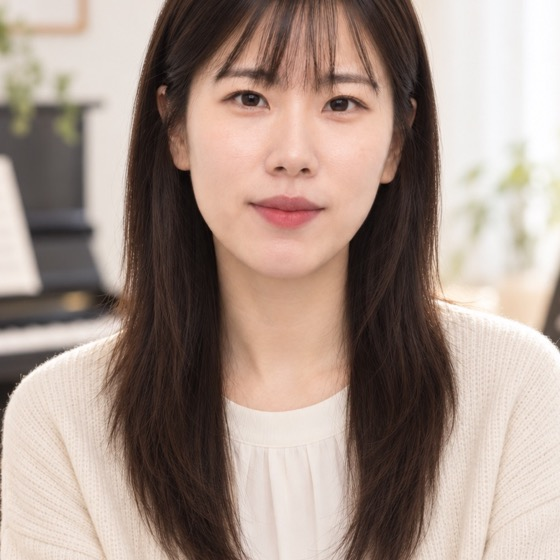
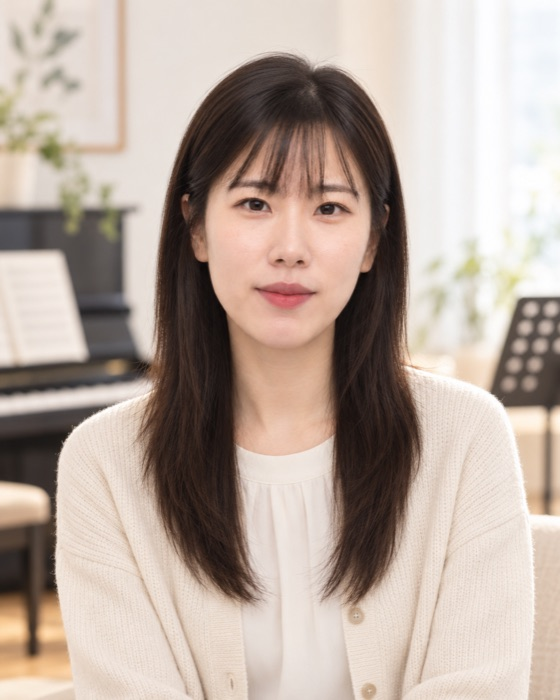
fix: 전문가 사진 머리 잘림 해소
- 사진을 정사각 크롭 대신 원본 3:4 비율 유지로 재생성 (긴 변 700px)
- 프로필 사진 틀을 정사각 → 4:5 세로 비율로 변경
- object-position 50% 8% 로 상단 기준 정렬 (가운데 정렬이 머리를 잘라먹던 원인)
- width/height 속성을 실제 크기로 갱신해 로딩 중 레이아웃 흔들림 방지

diff --git a/expert.html b/expert.html
@@ -10,7 +10,7 @@
   <link rel="preconnect" href="https://fonts.gstatic.com" crossorigin />
   <link rel="stylesheet" as="style" crossorigin href="https://cdn.jsdelivr.net/gh/orioncactus/pretendard@v1.3.9/dist/web/variable/pretendardvariable-dynamic-subset.min.css" />
   <link href="https://fonts.googleapis.com/css2?family=Jua&display=swap" rel="stylesheet" />
-  <link rel="stylesheet" href="assets/styles.css?v=20260908a" />
+  <link rel="stylesheet" href="assets/styles.css?v=20260908b" />
 
   <link rel="canonical" href="https://camiu787.github.io/innerMap-Kids/expert.html" />
   <meta name="robots" content="index, follow, max-image-preview:large, max-snippet:-1" />
@@ -244,7 +244,7 @@
         <div class="people">
           <article class="person rv">
             <div class="person__photo">
-              <img src="assets/people/kim-euigyeom.jpg" alt="김의겸 전문상담사" width="560" height="560" loading="lazy" />
+              <img src="assets/people/kim-euigyeom.jpg" alt="김의겸 전문상담사" width="525" height="700" loading="lazy" />
             </div>
             <div class="person__body">
               <h3>김의겸 <span>전문상담사</span></h3>
@@ -263,7 +263,7 @@
           </article>
           <article class="person rv">
             <div class="person__photo">
-              <img src="assets/people/kim-hyuna.jpg" alt="김현아 전문상담사" width="560" height="560" loading="lazy" />
+              <img src="assets/people/kim-hyuna.jpg" alt="김현아 전문상담사" width="560" height="700" loading="lazy" />
             </div>
             <div class="person__body">
               <h3>김현아 <span>전문상담사</span></h3>
@@ -282,7 +282,7 @@
           </article>
           <article class="person rv">
             <div class="person__photo">
-              <img src="assets/people/lee-hyuna.jpg" alt="이현아 전문상담사" width="560" height="560" loading="lazy" />
+              <img src="assets/people/lee-hyuna.jpg" alt="이현아 전문상담사" width="588" height="700" loading="lazy" />
             </div>
             <div class="person__body">
               <h3>이현아 <span>전문상담사</span></h3>
@@ -360,6 +360,6 @@
     </div>
   </footer>
 
-  <script src="assets/site.js?v=20260908a" defer></script>
+  <script src="assets/site.js?v=20260908b" defer></script>
 </body>
 </html>

diff --git a/reviews.html b/reviews.html
@@ -10,7 +10,7 @@
   <link rel="preconnect" href="https://fonts.gstatic.com" crossorigin />
   <link rel="stylesheet" as="style" crossorigin href="https://cdn.jsdelivr.net/gh/orioncactus/pretendard@v1.3.9/dist/web/variable/pretendardvariable-dynamic-subset.min.css" />
   <link href="https://fonts.googleapis.com/css2?family=Jua&display=swap" rel="stylesheet" />
-  <link rel="stylesheet" href="assets/styles.css?v=20260908a" />
+  <link rel="stylesheet" href="assets/styles.css?v=20260908b" />
 
   <link rel="canonical" href="https://camiu787.github.io/innerMap-Kids/reviews.html" />
   <meta name="robots" content="index, follow, max-image-preview:large, max-snippet:-1" />
@@ -323,7 +323,7 @@
     <button class="button button--dark" type="button" data-close-privacy>확인했습니다</button>
   </dialog>
 
-  <script src="assets/review.js?v=20260908a" defer></script>
-  <script src="assets/site.js?v=20260908a" defer></script>
+  <script src="assets/review.js?v=20260908b" defer></script>
+  <script src="assets/site.js?v=20260908b" defer></script>
 </body>
 </html>

diff --git a/apply.html b/apply.html
@@ -10,7 +10,7 @@
   <link rel="preconnect" href="https://fonts.gstatic.com" crossorigin />
   <link rel="stylesheet" as="style" crossorigin href="https://cdn.jsdelivr.net/gh/orioncactus/pretendard@v1.3.9/dist/web/variable/pretendardvariable-dynamic-subset.min.css" />
   <link href="https://fonts.googleapis.com/css2?family=Jua&display=swap" rel="stylesheet" />
-  <link rel="stylesheet" href="assets/styles.css?v=20260908a" />
+  <link rel="stylesheet" href="assets/styles.css?v=20260908b" />
 
   <link rel="canonical" href="https://camiu787.github.io/innerMap-Kids/apply.html" />
   <meta name="robots" content="index, follow, max-image-preview:large, max-snippet:-1" />
@@ -322,7 +322,7 @@
     <button class="button button--dark" type="button" data-close-privacy>확인했습니다</button>
   </dialog>
 
-  <script src="assets/site.js?v=20260908a" defer></script>
-  <script src="assets/script.js?v=20260908a" defer></script>
+  <script src="assets/site.js?v=20260908b" defer></script>
+  <script src="assets/script.js?v=20260908b" defer></script>
 </body>
 </html>

diff --git a/assets/styles.css b/assets/styles.css
@@ -359,9 +359,10 @@ html.js .hero__copy.s3 > * { opacity: 1; transform: none; }
 .person:hover { box-shadow: var(--shadow-2); transform: translateY(-3px); }
 .person__photo {
   border-radius: var(--r-md); overflow: hidden; background: var(--lavender-soft);
-  aspect-ratio: 1; box-shadow: var(--shadow-1);
+  aspect-ratio: 4 / 5; box-shadow: var(--shadow-1);
 }
-.person__photo img { width: 100%; height: 100%; object-fit: cover; }
+/* 인물 사진은 상단 기준으로 맞춘다 — 가운데 정렬하면 머리가 잘린다. */
+.person__photo img { width: 100%; height: 100%; object-fit: cover; object-position: 50% 8%; }
 .person__body h3 { font-size: clamp(20px, 2.2vw, 25px); margin: 0 0 4px; }
 .person__body h3 span { font-size: 0.72em; color: var(--lavender); }
 .person__role {
@@ -388,7 +389,7 @@ html.js .hero__copy.s3 > * { opacity: 1; transform: none; }
 
 @media (max-width: 700px) {
   .person { grid-template-columns: 1fr; }
-  .person__photo { width: 150px; }
+  .person__photo { width: 160px; }
 }
 
 /* ---------- 매니페스토 ---------- */

diff --git a/about.html b/about.html
@@ -10,7 +10,7 @@
   <link rel="preconnect" href="https://fonts.gstatic.com" crossorigin />
   <link rel="stylesheet" as="style" crossorigin href="https://cdn.jsdelivr.net/gh/orioncactus/pretendard@v1.3.9/dist/web/variable/pretendardvariable-dynamic-subset.min.css" />
   <link href="https://fonts.googleapis.com/css2?family=Jua&display=swap" rel="stylesheet" />
-  <link rel="stylesheet" href="assets/styles.css?v=20260908a" />
+  <link rel="stylesheet" href="assets/styles.css?v=20260908b" />
 
   <link rel="canonical" href="https://camiu787.github.io/innerMap-Kids/about.html" />
   <meta name="robots" content="index, follow, max-image-preview:large, max-snippet:-1" />
@@ -254,6 +254,6 @@
     </div>
   </footer>
 
-  <script src="assets/site.js?v=20260908a" defer></script>
+  <script src="assets/site.js?v=20260908b" defer></script>
 </body>
 </html>

diff --git a/mbti.html b/mbti.html
@@ -10,7 +10,7 @@
   <link rel="preconnect" href="https://fonts.gstatic.com" crossorigin />
   <link rel="stylesheet" as="style" crossorigin href="https://cdn.jsdelivr.net/gh/orioncactus/pretendard@v1.3.9/dist/web/variable/pretendardvariable-dynamic-subset.min.css" />
   <link href="https://fonts.googleapis.com/css2?family=Jua&display=swap" rel="stylesheet" />
-  <link rel="stylesheet" href="assets/styles.css?v=20260908a" />
+  <link rel="stylesheet" href="assets/styles.css?v=20260908b" />
 
   <link rel="canonical" href="https://camiu787.github.io/innerMap-Kids/mbti.html" />
   <meta name="robots" content="index, follow, max-image-preview:large, max-snippet:-1" />
@@ -458,6 +458,6 @@
     </div>
   </footer>
 
-  <script src="assets/site.js?v=20260908a" defer></script>
+  <script src="assets/site.js?v=20260908b" defer></script>
 </body>
 </html>

diff --git a/dna.html b/dna.html
@@ -10,7 +10,7 @@
   <link rel="preconnect" href="https://fonts.gstatic.com" crossorigin />
   <link rel="stylesheet" as="style" crossorigin href="https://cdn.jsdelivr.net/gh/orioncactus/pretendard@v1.3.9/dist/web/variable/pretendardvariable-dynamic-subset.min.css" />
   <link href="https://fonts.googleapis.com/css2?family=Jua&display=swap" rel="stylesheet" />
-  <link rel="stylesheet" href="assets/styles.css?v=20260908a" />
+  <link rel="stylesheet" href="assets/styles.css?v=20260908b" />
 
   <link rel="canonical" href="https://camiu787.github.io/innerMap-Kids/dna.html" />
   <meta name="robots" content="index, follow, max-image-preview:large, max-snippet:-1" />
@@ -339,6 +339,6 @@
     </div>
   </footer>
 
-  <script src="assets/site.js?v=20260908a" defer></script>
+  <script src="assets/site.js?v=20260908b" defer></script>
 </body>
 </html>

diff --git a/faq.html b/faq.html
@@ -10,7 +10,7 @@
   <link rel="preconnect" href="https://fonts.gstatic.com" crossorigin />
   <link rel="stylesheet" as="style" crossorigin href="https://cdn.jsdelivr.net/gh/orioncactus/pretendard@v1.3.9/dist/web/variable/pretendardvariable-dynamic-subset.min.css" />
   <link href="https://fonts.googleapis.com/css2?family=Jua&display=swap" rel="stylesheet" />
-  <link rel="stylesheet" href="assets/styles.css?v=20260908a" />
+  <link rel="stylesheet" href="assets/styles.css?v=20260908b" />
 
   <link rel="canonical" href="https://camiu787.github.io/innerMap-Kids/faq.html" />
   <meta name="robots" content="index, follow, max-image-preview:large, max-snippet:-1" />
@@ -298,6 +298,6 @@
     </div>
   </footer>
 
-  <script src="assets/site.js?v=20260908a" defer></script>
+  <script src="assets/site.js?v=20260908b" defer></script>
 </body>
 </html>

diff --git a/tci.html b/tci.html
@@ -10,7 +10,7 @@
   <link rel="preconnect" href="https://fonts.gstatic.com" crossorigin />
   <link rel="stylesheet" as="style" crossorigin href="https://cdn.jsdelivr.net/gh/orioncactus/pretendard@v1.3.9/dist/web/variable/pretendardvariable-dynamic-subset.min.css" />
   <link href="https://fonts.googleapis.com/css2?family=Jua&display=swap" rel="stylesheet" />
-  <link rel="stylesheet" href="assets/styles.css?v=20260908a" />
+  <link rel="stylesheet" href="assets/styles.css?v=20260908b" />
 
   <link rel="canonical" href="https://camiu787.github.io/innerMap-Kids/tci.html" />
   <meta name="robots" content="index, follow, max-image-preview:large, max-snippet:-1" />
@@ -426,6 +426,6 @@
     </div>
   </footer>
 
-  <script src="assets/site.js?v=20260908a" defer></script>
+  <script src="assets/site.js?v=20260908b" defer></script>
 </body>
 </html>

diff --git a/index.html b/index.html
@@ -10,7 +10,7 @@
   <link rel="preconnect" href="https://fonts.gstatic.com" crossorigin />
   <link rel="stylesheet" as="style" crossorigin href="https://cdn.jsdelivr.net/gh/orioncactus/pretendard@v1.3.9/dist/web/variable/pretendardvariable-dynamic-subset.min.css" />
   <link href="https://fonts.googleapis.com/css2?family=Jua&display=swap" rel="stylesheet" />
-  <link rel="stylesheet" href="assets/styles.css?v=20260908a" />
+  <link rel="stylesheet" href="assets/styles.css?v=20260908b" />
   <script>document.documentElement.className += ' js';</script>
 
   <link rel="canonical" href="https://camiu787.github.io/innerMap-Kids/" />
@@ -282,6 +282,6 @@
     </div>
   </footer>
 
-  <script src="assets/site.js?v=20260908a" defer></script>
+  <script src="assets/site.js?v=20260908b" defer></script>
 </body>
 </html>

diff --git a/404.html b/404.html
@@ -12,7 +12,7 @@
   <link rel="preconnect" href="https://fonts.gstatic.com" crossorigin />
   <link rel="stylesheet" as="style" crossorigin href="https://cdn.jsdelivr.net/gh/orioncactus/pretendard@v1.3.9/dist/web/variable/pretendardvariable-dynamic-subset.min.css" />
   <link href="https://fonts.googleapis.com/css2?family=Jua&display=swap" rel="stylesheet" />
-  <link rel="stylesheet" href="assets/styles.css?v=20260908a" />
+  <link rel="stylesheet" href="assets/styles.css?v=20260908b" />
 </head>
 <body class="has-page-head">
   <a class="skip-link" href="#main">본문으로 바로가기</a>
@@ -103,6 +103,6 @@
     </div>
   </footer>
 
-  <script src="assets/site.js?v=20260908a" defer></script>
+  <script src="assets/site.js?v=20260908b" defer></script>
 </body>
 </html>
